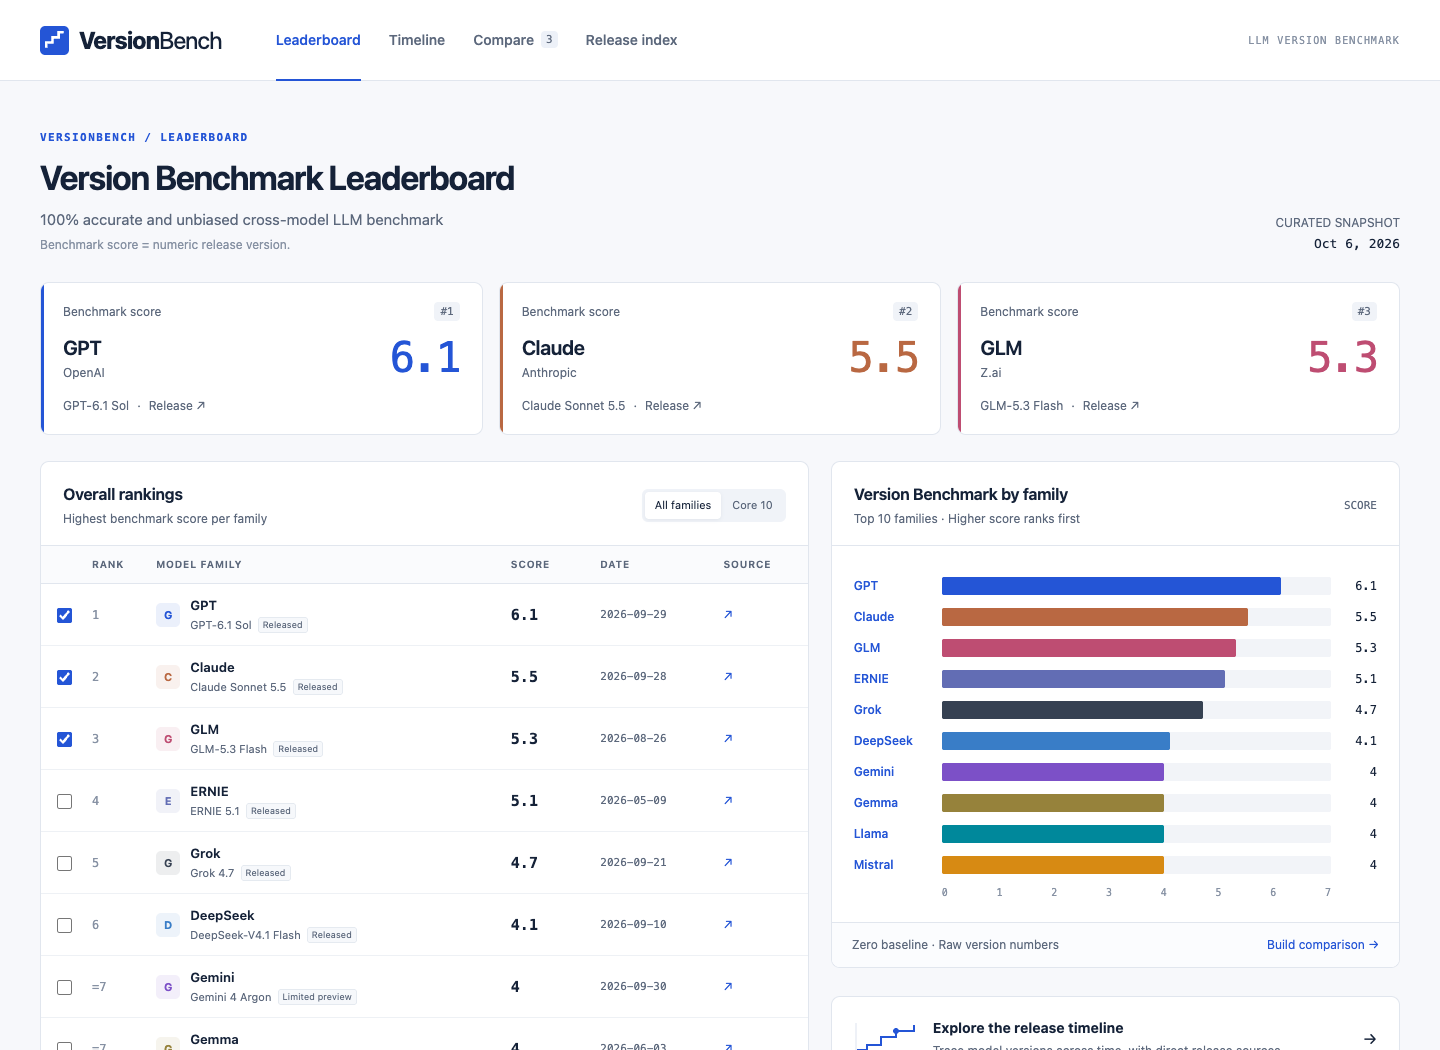
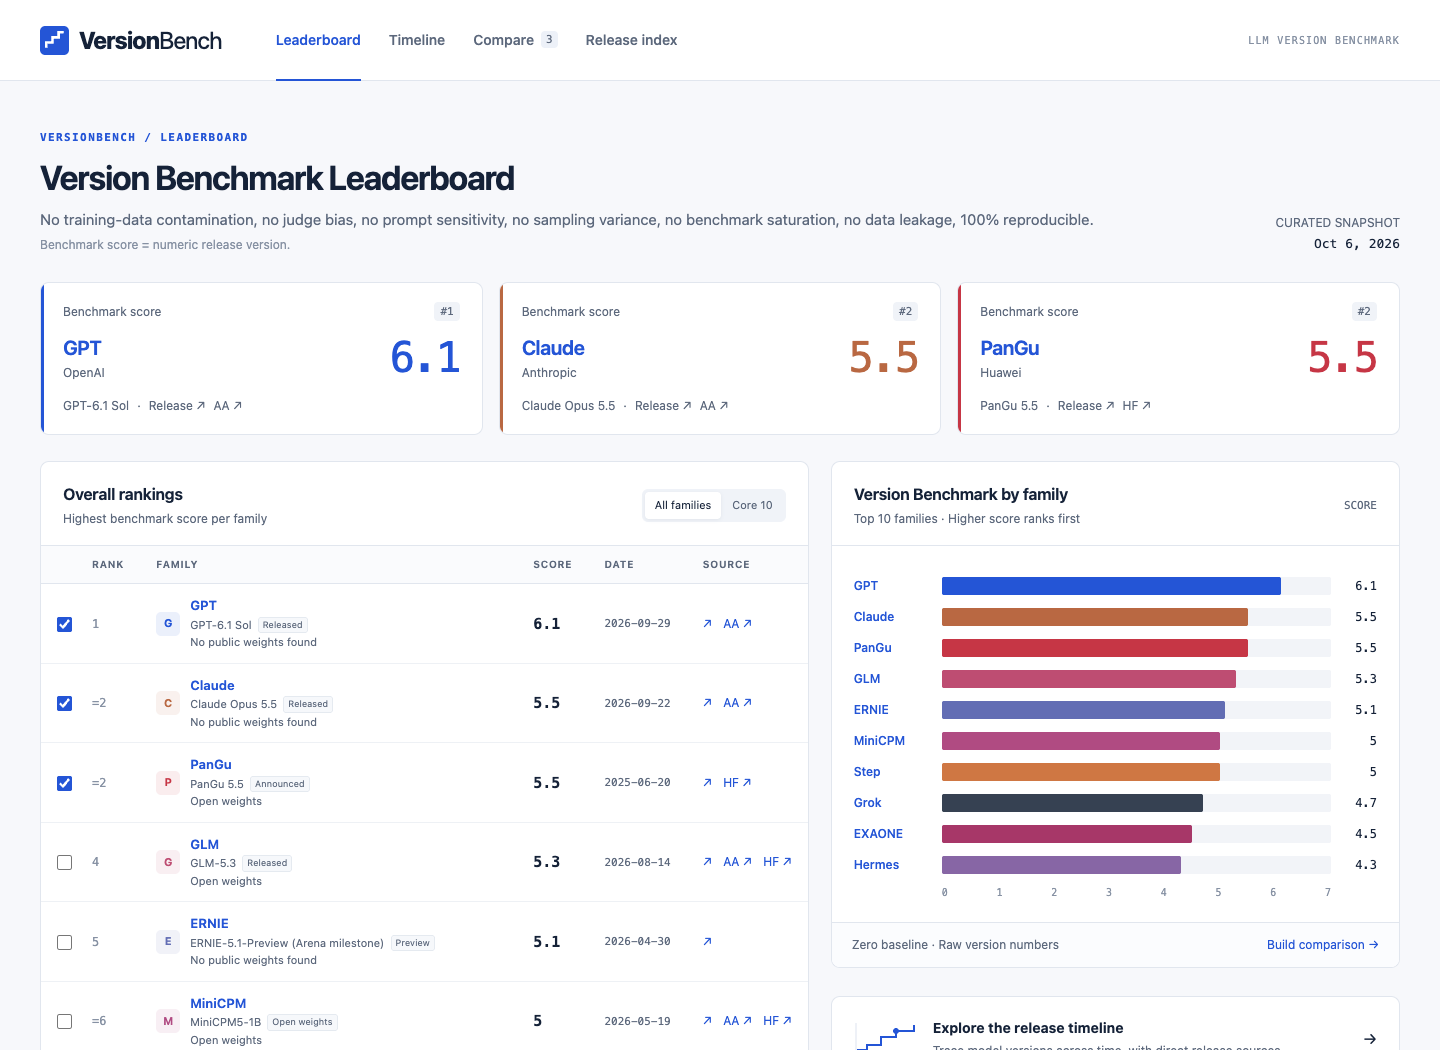
Refresh README screenshot and simplify bold formatting

diff --git a/README.md b/README.md
@@ -2,7 +2,7 @@
 
 # VersionBench
 
-**VersionBench: No training-data contamination, no judge bias, no prompt sensitivity, no sampling variance, no benchmark saturation, no data leakage, 100% reproducible.**
+VersionBench: No training-data contamination, no judge bias, no prompt sensitivity, no sampling variance, no benchmark saturation, no data leakage, 100% reproducible.
 
 VersionBench is a leaderboard that ranks language models by the numeric version in their names. It is also unironically quite a convenient place to look at the release history and announcement pages of LLMs.
 
@@ -10,9 +10,11 @@ VersionBench obeys mathematics, not semantic versioning. Thus 3.9 > 3.10. Vendor
 
 [Live demo](https://procrastinine.github.io/versionbench/) · [Data documentation](data/README.md) · [Generated statistics](data/stats.json)
 
-Snapshot **2026-10-06** · **48 model families** · **551 model release events** · **348 model sources** · **292 releases linked to Artificial Analysis** · **273 releases linked to Hugging Face weights**
+Snapshot **2026-10-06** · **48** model families · **551** model release events · **348** model sources · **292** releases linked to Artificial Analysis · **273** releases linked to Hugging Face weights
 
-Separately: **3 software controls**, **49 release events**. Controls are excluded from model statistics and rankings.
+Separately: **3** software controls, **49** release events. Controls are excluded from model statistics and rankings.
+
+[![VersionBench leaderboard with model-family rankings, release links, and a version-number comparison chart.](docs/leaderboard.png)](https://procrastinine.github.io/versionbench/)
 
 ## Run locally
 

diff --git a/docs/templates/README.md b/docs/templates/README.md
@@ -1,6 +1,6 @@
 # VersionBench
 
-**VersionBench: No training-data contamination, no judge bias, no prompt sensitivity, no sampling variance, no benchmark saturation, no data leakage, 100% reproducible.**
+VersionBench: No training-data contamination, no judge bias, no prompt sensitivity, no sampling variance, no benchmark saturation, no data leakage, 100% reproducible.
 
 VersionBench is a leaderboard that ranks language models by the numeric version in their names. It is also unironically quite a convenient place to look at the release history and announcement pages of LLMs.
 
@@ -9,6 +9,8 @@ VersionBench obeys mathematics, not semantic versioning. Thus 3.9 > 3.10. Vendor
 [Live demo](https://procrastinine.github.io/versionbench/) · [Data documentation](data/README.md) · [Generated statistics](data/stats.json)
 
 {{STATS_SUMMARY}}
+
+[![VersionBench leaderboard with model-family rankings, release links, and a version-number comparison chart.](docs/leaderboard.png)](https://procrastinine.github.io/versionbench/)
 
 ## Run locally
 

diff --git a/data/README.md b/data/README.md
@@ -2,9 +2,9 @@
 
 # VersionBench release data
 
-Snapshot **2026-10-06** · **48 model families** · **551 model release events** · **348 model sources** · **292 releases linked to Artificial Analysis** · **273 releases linked to Hugging Face weights**
+Snapshot **2026-10-06** · **48** model families · **551** model release events · **348** model sources · **292** releases linked to Artificial Analysis · **273** releases linked to Hugging Face weights
 
-Separately: **3 software controls**, **49 release events**. Controls are excluded from model statistics and rankings.
+Separately: **3** software controls, **49** release events. Controls are excluded from model statistics and rankings.
 
 ## Files
 
